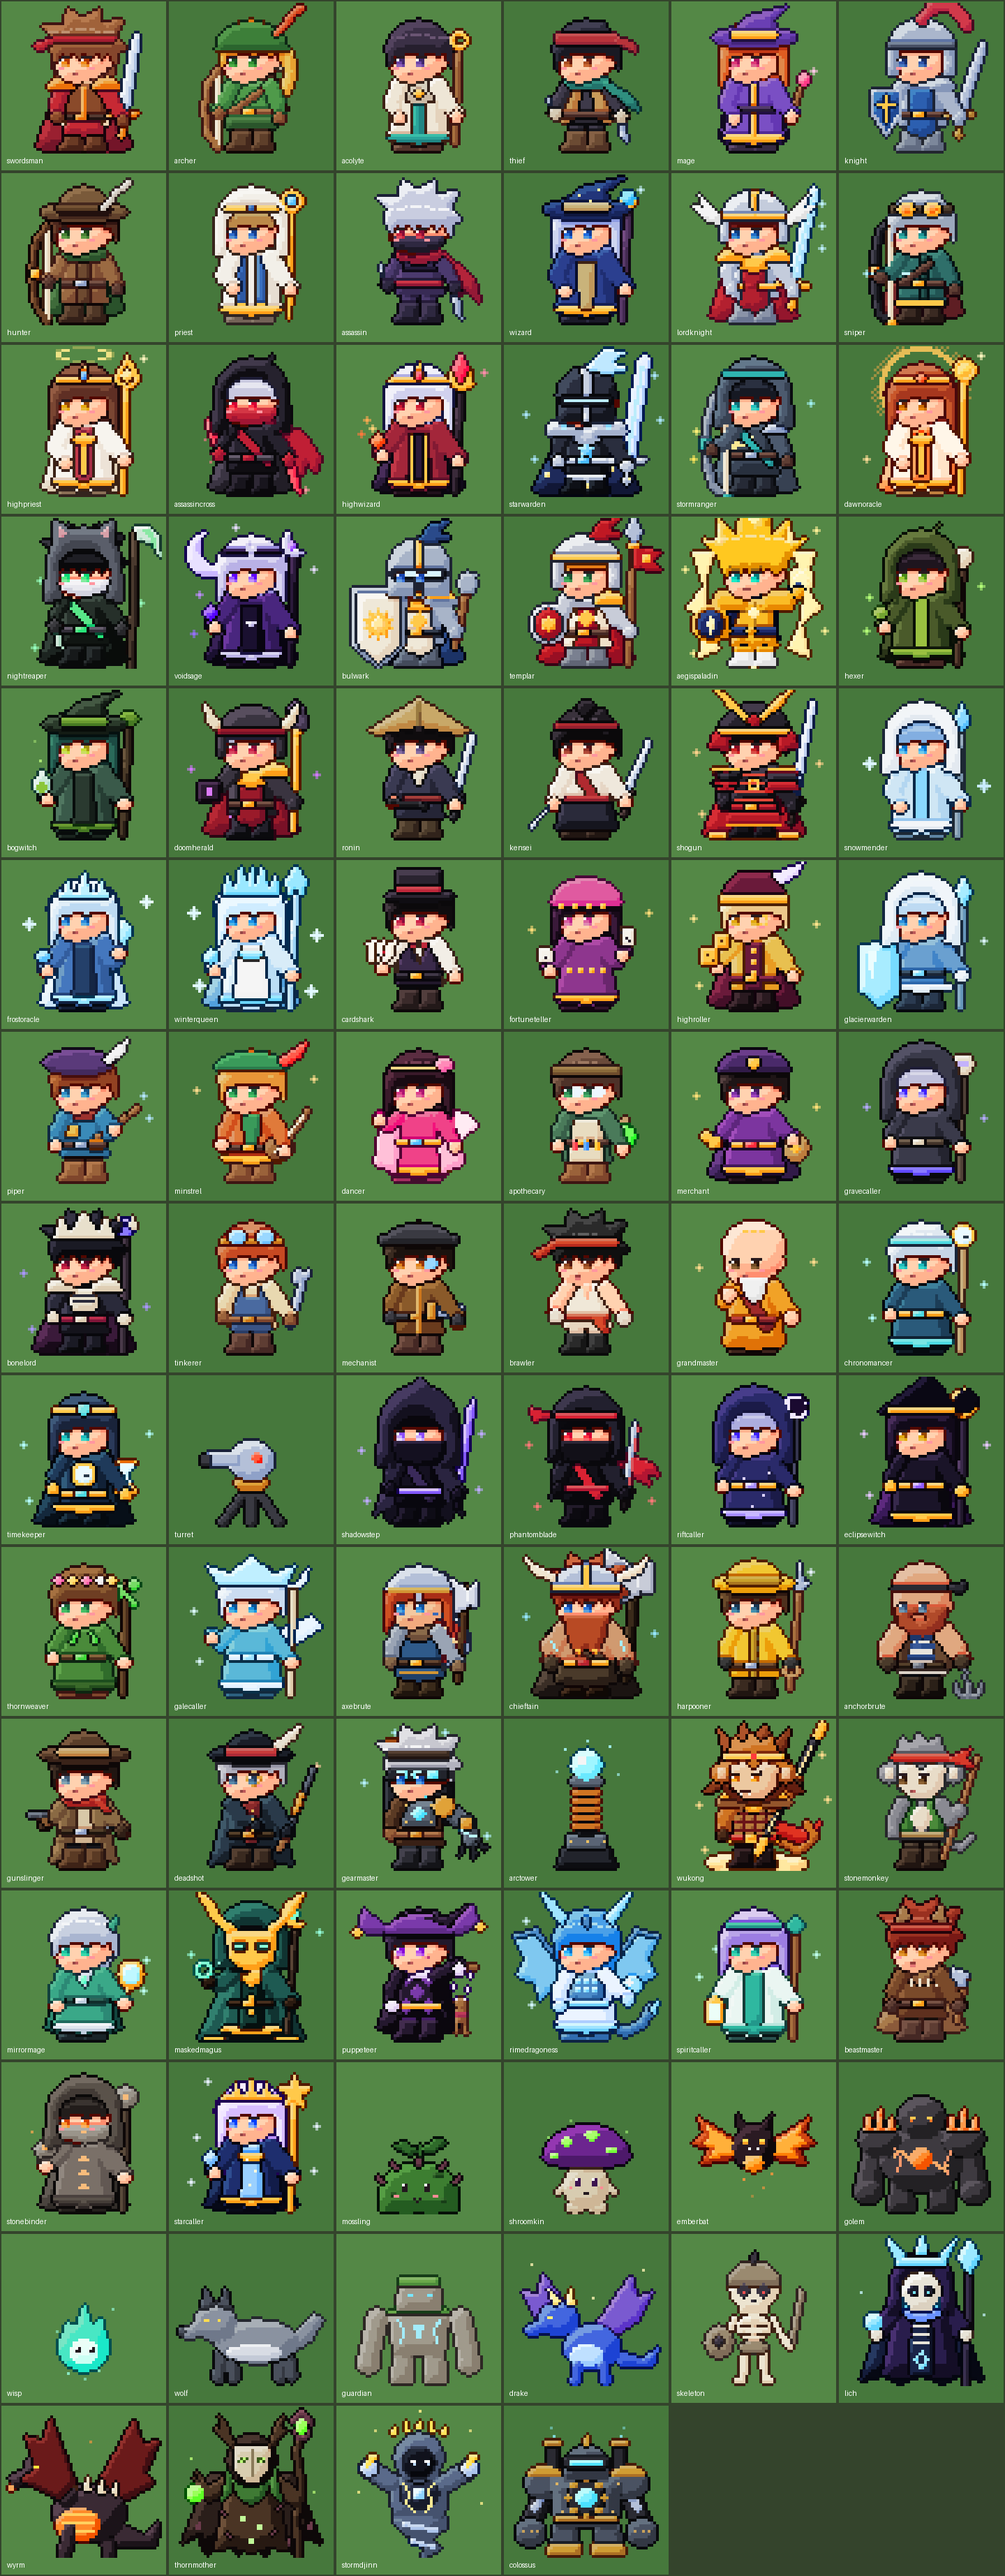
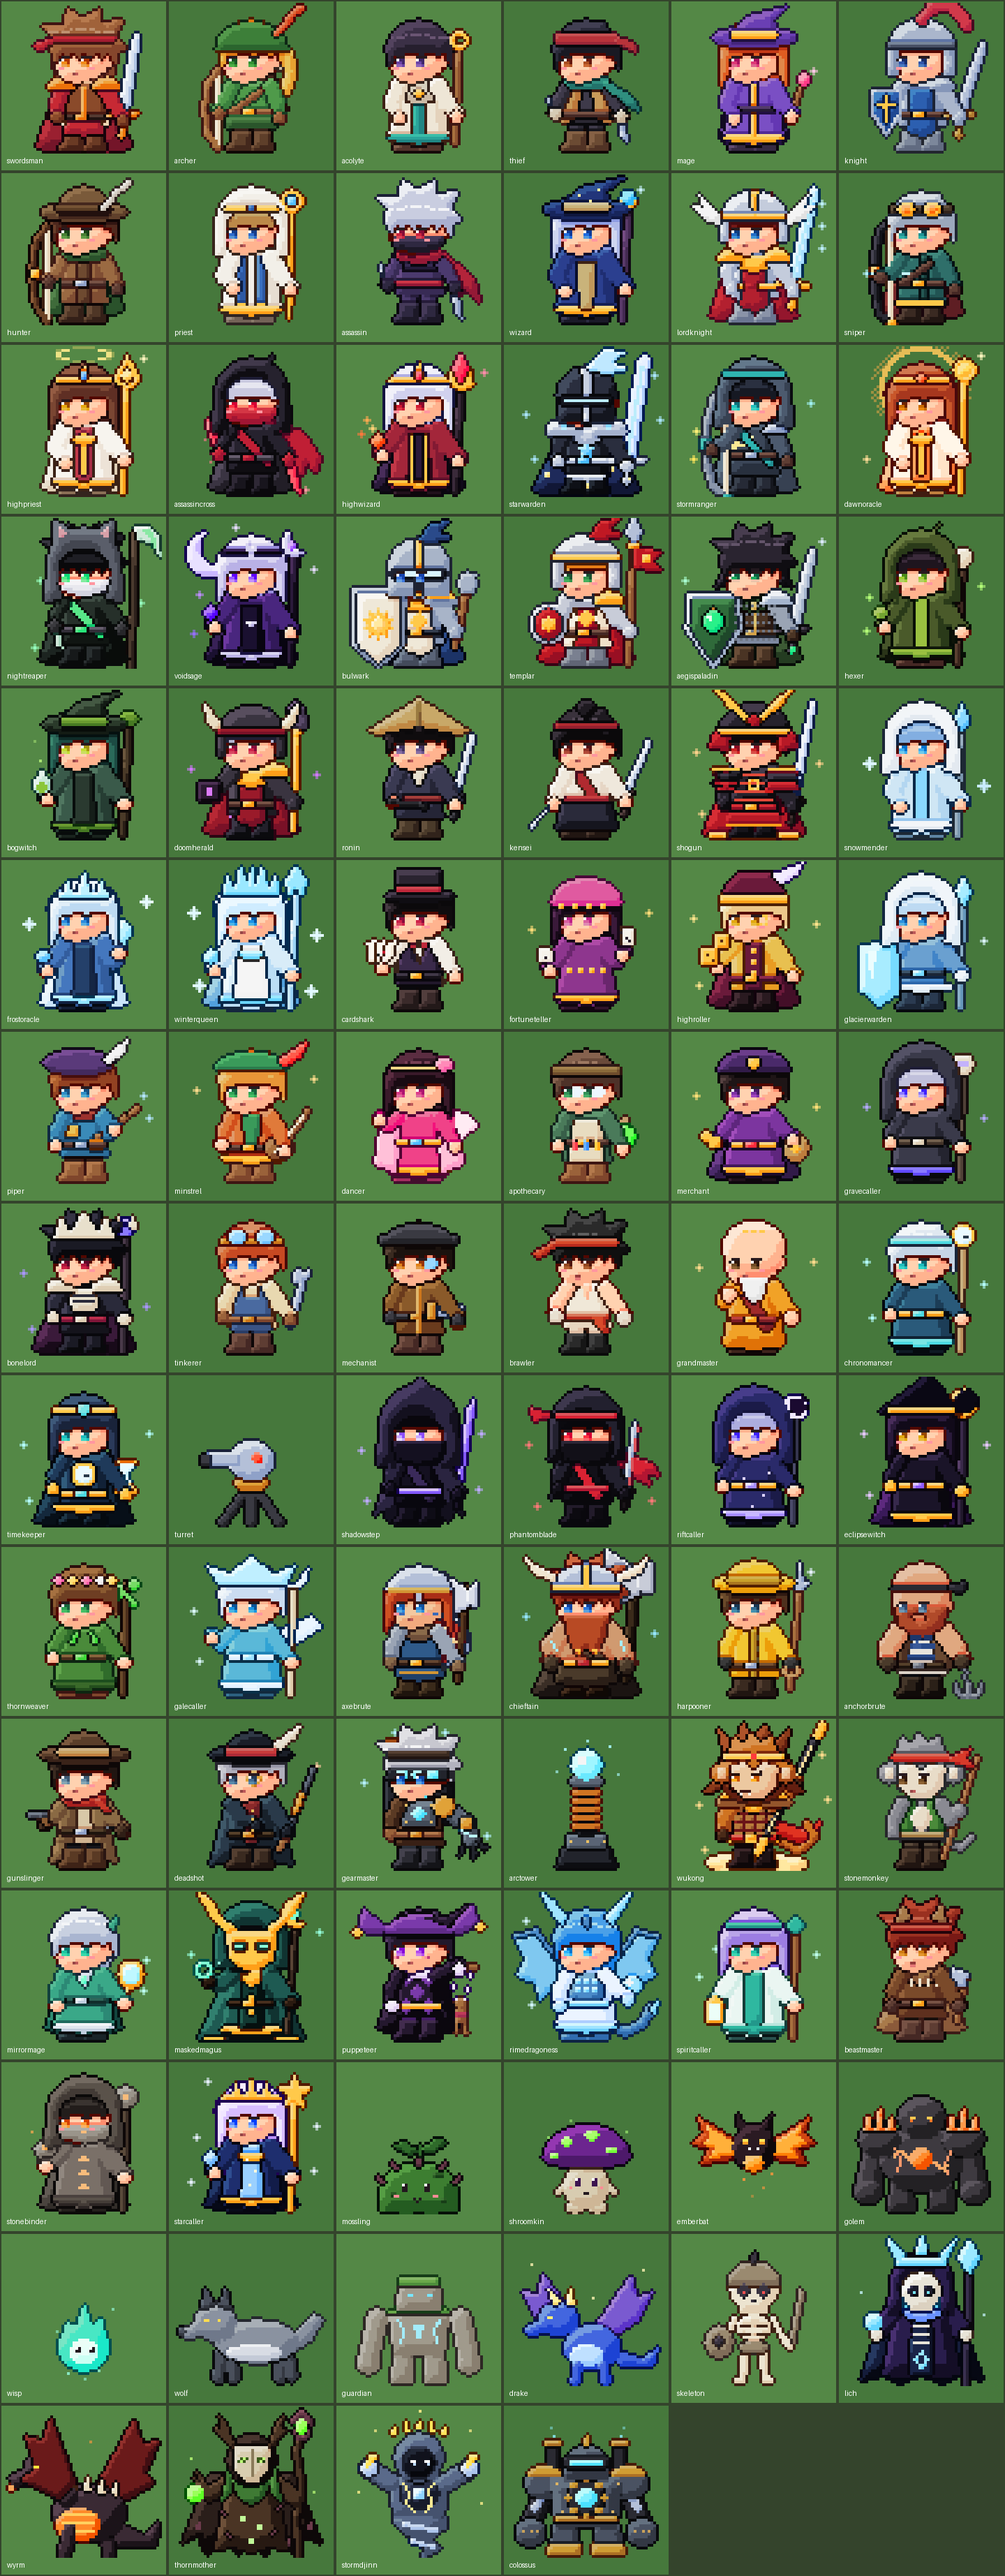
Aegis Paladin redrawn as a shield hero: hooded green mantle, emerald-gem kite shield, sword held forward

Changed region(s): [[0.6562, 0.187, 0.8125, 0.2805]]

diff --git a/ro-autobattler.html b/ro-autobattler.html
@@ -1120,7 +1120,7 @@ const DEFAULT_SPRITES = {
[8 lines of base64/hex data omitted]

diff --git a/tools/crusaders.py b/tools/crusaders.py
@@ -92,54 +92,49 @@ def templar():
 
 
 def aegispaladin():
-    # the Aegis Paladin, powered up: tall flame-like golden hair standing on end, fierce teal eyes,
-    # gold battle armour with broad shoulder flaps over a dark blue bodysuit, a crackling golden aura,
-    # a raised gauntlet charging a ball of holy light, a gold-rimmed round shield
+    # the Aegis Paladin as a wandering shield hero: messy dark hair, serious emerald eyes, a hooded
+    # forest-green travel mantle over chainmail and a dark leather vest, one steel pauldron, a big
+    # emerald-gem kite shield on the left arm, a plain steel longsword held forward like the other swordsmen
     s = Spr()
-    gold, deep, suit, aura, light = ramp('#f0b830', 1.35, 1.1), ramp('#b87a18', 1.3), ramp('#1e2a6a', 1.25), ramp('#fff4b0', .5), ramp('#fff6c0', .8)
-    hair = ramp('#ffc820', 1.45, 1.25)
-    with s.grp('cape'):   # golden power aura, flame-shaped
-        s.part(aura, [('poly', [(28, -2), (34, 6), (41, 2), (42, 12), (50, 12), (46, 24), (52, 32), (45, 38), (48, 50), (38, 46), (28, 54),
-                                (18, 46), (8, 50), (11, 38), (4, 32), (10, 24), (6, 12), (14, 12), (15, 2), (22, 6)])],
-               sub=[('ell', 28, 28, 17.5, 25)], soft=.6, gloss=.4, line=False)
-    legs(s, suit, ramp('#f2f2f2', .8))
-    with s.grp('legL'):
-        s.part(gold, [('rect', 21.5, 46, 27.5, 48)], soft=.3, gloss=1.2, line=False)
-    with s.grp('legR'):
-        s.part(gold, [('rect', 29.5, 46, 35, 48)], soft=.3, gloss=1.2, line=False)
-    torso(s, suit, hem=44)
-    with s.grp('body'):   # gold battle armour
-        s.part(gold, [('poly', [(21, 29), (35, 29), (35, 40), (28, 41.5), (21, 40)])], soft=1.4, gloss=1.6)
-        s.part(deep, [('cap', 23, 33.5, 33, 33.5, .4), ('cap', 28, 30, 28, 40.5, .35)], soft=.2, line=False)   # chest plate lines
-        s.part(gold, [('poly', [(21, 40), (35, 40), (36.5, 46), (31, 45), (28, 47), (25, 45), (19.5, 46)])], soft=1, gloss=1.3)   # hip flaps
-        s.part(light, [('ell', 28, 34, 1.6, 1.6)], soft=.2, gloss=1.6, line=False)
-    belt(s, suit, 39.5, gold)
-    with s.grp('weapon'):   # holy light charging in the raised fist
-        s.part(aura, [('ell', 45, 22, 4.4, 4.4)], soft=.6, gloss=1.2, line=False)
-        s.part(light, [('ell', 45, 22, 2.6, 2.6)], soft=.3, gloss=1.8, line=False)
-    arm(s, suit, suit, (35, 30), (40, 29), (44, 25.5), r=2.9, glove=gold)   # fist raised
-    arm(s, suit, suit, (21, 30), (18.5, 35), (17.5, 39.5), r=2.9, glove=gold)
-    for cx in (36.5, 19.5):   # broad shoulder flaps
-        s.part(gold, [('poly', [(cx - 6.5, 29.5), (cx - 4, 26), (cx + 4, 26), (cx + 6.5, 29.5), (cx + 5, 33), (cx - 5, 33)])], soft=1, gloss=1.5, cast=1)
-    s.part(gold, [('ell', 12.5, 38, 6.5, 6.8)], soft=1.5, gloss=1.5)   # round shield
-    s.part(suit, [('ell', 12.5, 38, 4.6, 4.8)], soft=1, gloss=1)
-    s.part(light, [('poly', [(12.5, 34), (14, 38), (12.5, 42), (11, 38)])], soft=.3, gloss=1.6, line=False)
+    green, mantle, mail, leather = ramp('#2f6a3a', 1.25), ramp('#3c5a34', 1.2), ramp('#9aa4b4', 1.2), ramp('#4a3424', 1.2)
+    steel, gem, hair, trim = ramp('#c8d2e0', 1.35), ramp('#3ae08a', 1.3, 1.2), ramp('#2a2430', 1.3), ramp('#d8c070', 1.1)
+    cape(s, mantle, 1.35, 52)
+    legs(s, ramp('#3a3440', 1.2), leather)
+    torso(s, mail, hem=45)
+    with s.grp('body'):
+        for y in (31, 34, 37, 40, 43):   # chainmail rings
+            for x in range(21, 36, 2):
+                s.mark(x, y, (110, 118, 132))
+        s.part(leather, [('poly', [(22, 29.5), (34, 29.5), (34.5, 40), (28, 41), (21.5, 40)])], soft=1, gloss=.6)   # leather vest
+        s.part(trim, [('cap', 28, 30, 28, 40, .35)], soft=.2, line=False)   # lacing
+        s.part(mantle, [('poly', [(19.5, 27.5), (36.5, 27.5), (35, 32), (28, 34), (21, 32)])], soft=1.2, cast=1)   # hood down around the shoulders
+        s.part(trim, [('ell', 28, 31.5, 1.3, 1.3)], soft=.3, gloss=1.4)   # cloak clasp
+    belt(s, leather, 40, trim)
+    sword(s, steel, ramp('#3a3440', 1.2), x0=42, y0=43, x1=49, y1=11, w=1.9, guard=4.6)   # held forward, like the other swordsmen
+    with s.grp('weapon'):
+        s.part(gem, [('ell', 41.8, 47.4, 1.2, 1.2)], soft=.2, gloss=1.6, line=False)   # emerald pommel
+    arm(s, mail, SKIN, (35, 30), (38.5, 36), (42, 41), r=2.8, glove=leather)
+    s.part(steel, [('chord', 36, 31, 5.6, 5, 180, 360)], soft=1.2, gloss=1.4, cast=1)   # one steel pauldron
+    arm(s, mail, SKIN, (21, 30), (18.5, 35), (17.5, 39.5), r=2.8, glove=leather)
+    # emerald-gem kite shield: silver frame, green face, a large glowing gem set in leaf-like prongs
+    s.part(steel, [('poly', [(4, 27), (23, 27), (23.5, 40), (13.5, 54), (3.5, 40)])], soft=1.6, gloss=1.4)
+    s.part(green, [('poly', [(6, 29), (21, 29), (21.5, 39.5), (13.5, 51.5), (5.5, 39.5)])], soft=1.6, gloss=1)
+    for dx, dy in ((0, -6), (5, -1), (-5, -1), (0, 5)):   # leaf prongs around the gem
+        s.part(trim, [('poly', [(13.5, 37), (13.5 + dx * .5 + dy * .15, 37 + dy * .5 - dx * .1), (13.5 + dx, 37 + dy)])], soft=.4, gloss=1.2)
+    s.part(gem, [('ell', 13.5, 37, 3.4, 3.8)], soft=.6, gloss=1.8)
+    s.part(ramp('#d8ffe8', .5), [('ell', 12.4, 35.6, 1, 1)], soft=.1, line=False, flat=True, bias=.5)
     head(s)
-    with s.grp('head'):   # golden hair standing on end
-        s.part(hair, [('chord', 28, 16.5, 12, 11.5, 175, 365),
-                      ('poly', [(16, 15), (9, 7), (17, 9), (15, 0), (22, 6), (23, -4), (28, 3), (33, -4), (34, 6), (41, 0), (39, 9), (47, 7), (40, 15)]),
-                      ('poly', [(16.5, 16), (18, 22), (20, 17.5), (23, 20), (25, 16.5), (27, 21), (29, 16.5), (31, 19), (33, 16.5), (36, 20.5), (39.5, 16)])],
-               soft=1.6, cast=2, shine=6)
-    face(s, '#18c0b0', mouth=None, blush=False)
+    with s.grp('head'):   # messy back hair
+        s.part(hair, [('poly', [(17, 19), (14, 25), (19, 23)]), ('poly', [(39, 19), (42, 25), (37, 23)])], soft=1)
+    bangs(s, hair, 'spiky', shine=8)
+    face(s, '#2aa060', mouth=None, blush=False)
     if not kit_expr():
-        for x0, x1 in ((20, 23), (27, 30)):   # fierce brows
-            for x in range(x0, x1):
-                s.mark(x, 18, (150, 100, 20))
-        s.mark(19, 17, (150, 100, 20)); s.mark(30, 17, (150, 100, 20))
-        for x in (24, 25, 26):
-            s.mark(x, 25, (150, 70, 70))
-    for x, y in ((3, 18), (53, 40), (50, 4), (6, 48)):
-        sparkle(s, x, y, (255, 240, 150))
+        for x in (20, 21, 22, 27, 28, 29):   # serious, narrowed eyes
+            s.mark(x, 18, (34, 24, 30))
+        for x in (20, 21, 22, 27, 28, 29):
+            s.mark(x, 22, (236, 196, 170))
+        s.mark(24, 25, (150, 80, 80)); s.mark(25, 25, (150, 80, 80))
+    sparkle(s, 3, 22, (170, 255, 210)); sparkle(s, 52, 8, (220, 235, 255))
     return s
 
 
